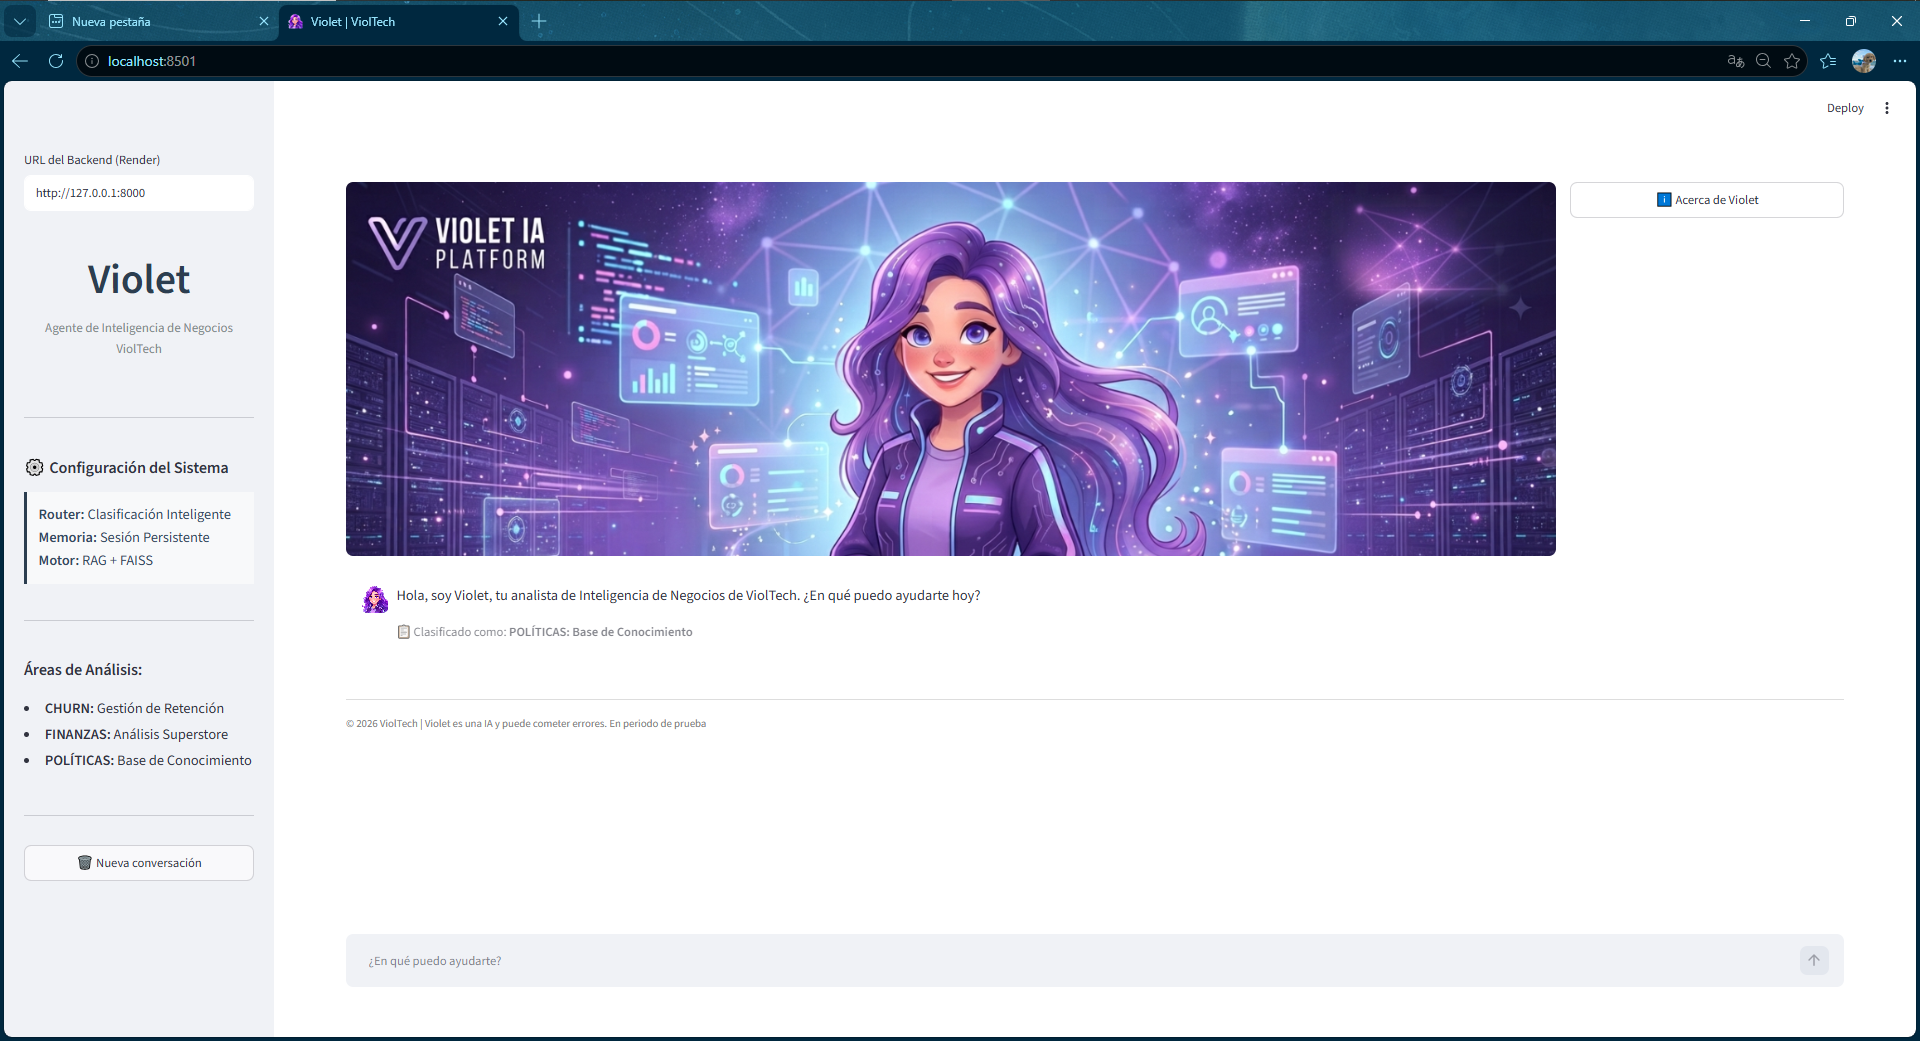
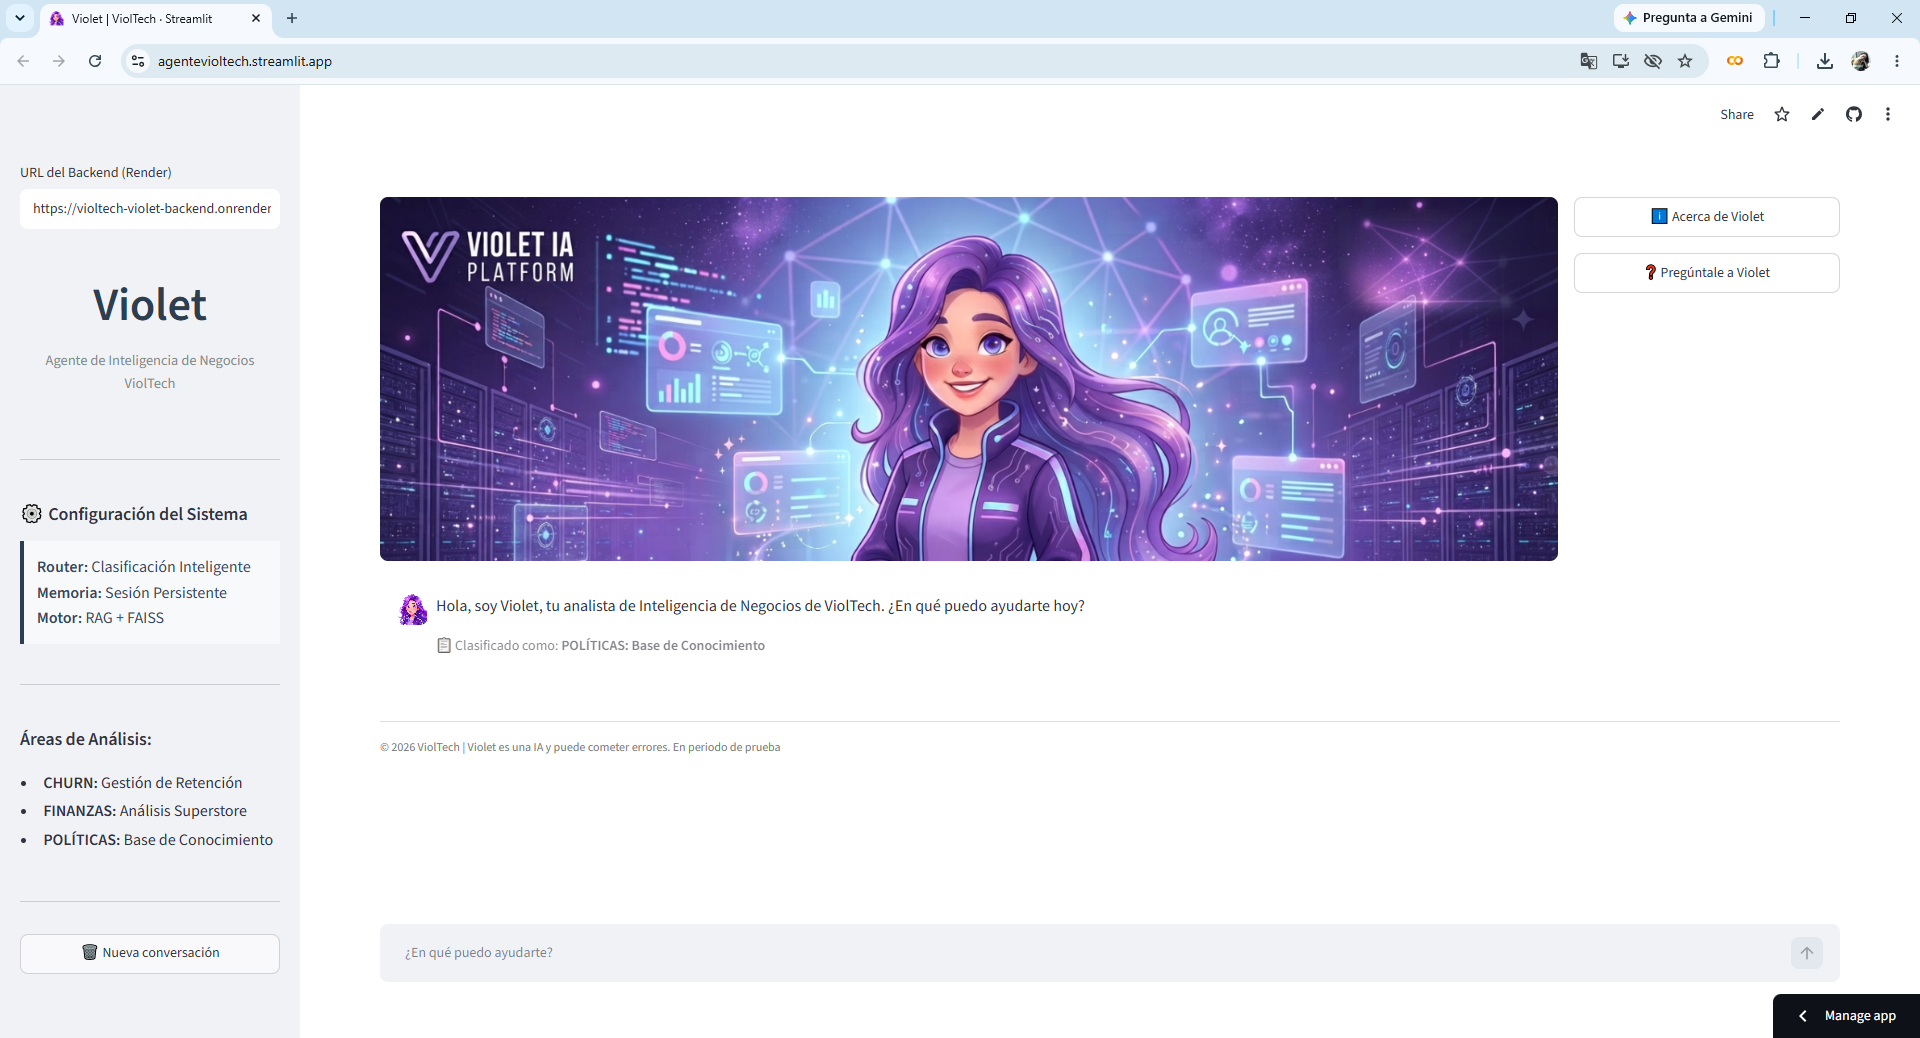
Actualización: Mejora en la interfaz y botones de Violet

diff --git a/streamlit_app.py b/streamlit_app.py
@@ -6,9 +6,8 @@ import base64
 import pathlib
 
 # URL de tu API de FastAPI.
-# En local usas "http://127.0.0.1:8000", cuando despliegues en Render la cambias por tu URL de producción.
 URL_API_VIOLET = st.sidebar.text_input(
-    "URL del Backend (Render)", value="http://127.0.0.1:8000"
+    "URL del Backend (Render)", value="https://violtech-violet-backend.onrender.com"
 )
 
 # Constantes de configuración locales de la UI
@@ -125,6 +124,24 @@ def main():
                 """)
             time.sleep(5)
             st.session_state.show_about = False
+            st.rerun()
+
+        if st.button("❓ Pregúntale a Violet", use_container_width=True):
+            st.session_state.show_preguntas = True
+        st.session_state.show_about = False
+
+        if st.session_state.get("show_preguntas", False):
+            st.info("""
+                ### Ejemplos de consulta:
+                - ¿Cuántos clientes tienen riesgo Alto? (Churn)
+                - Genera un reporte ejecutivo de clientes en riesgo Alto (Churn)
+                - ¿Cuántas transacciones pierden dinero? (Finanzas)
+                - Genera un reporte financiero ejecutivo de Superstore (Finanzas)
+                - ¿Cuál es la regla del 20%? (Políticas)
+                - ¿Cómo funciona el router de Violet? (Política)   
+            """)
+            time.sleep(9)
+            st.session_state.show_preguntas = False
             st.rerun()
 
     # 2. SIDEBAR